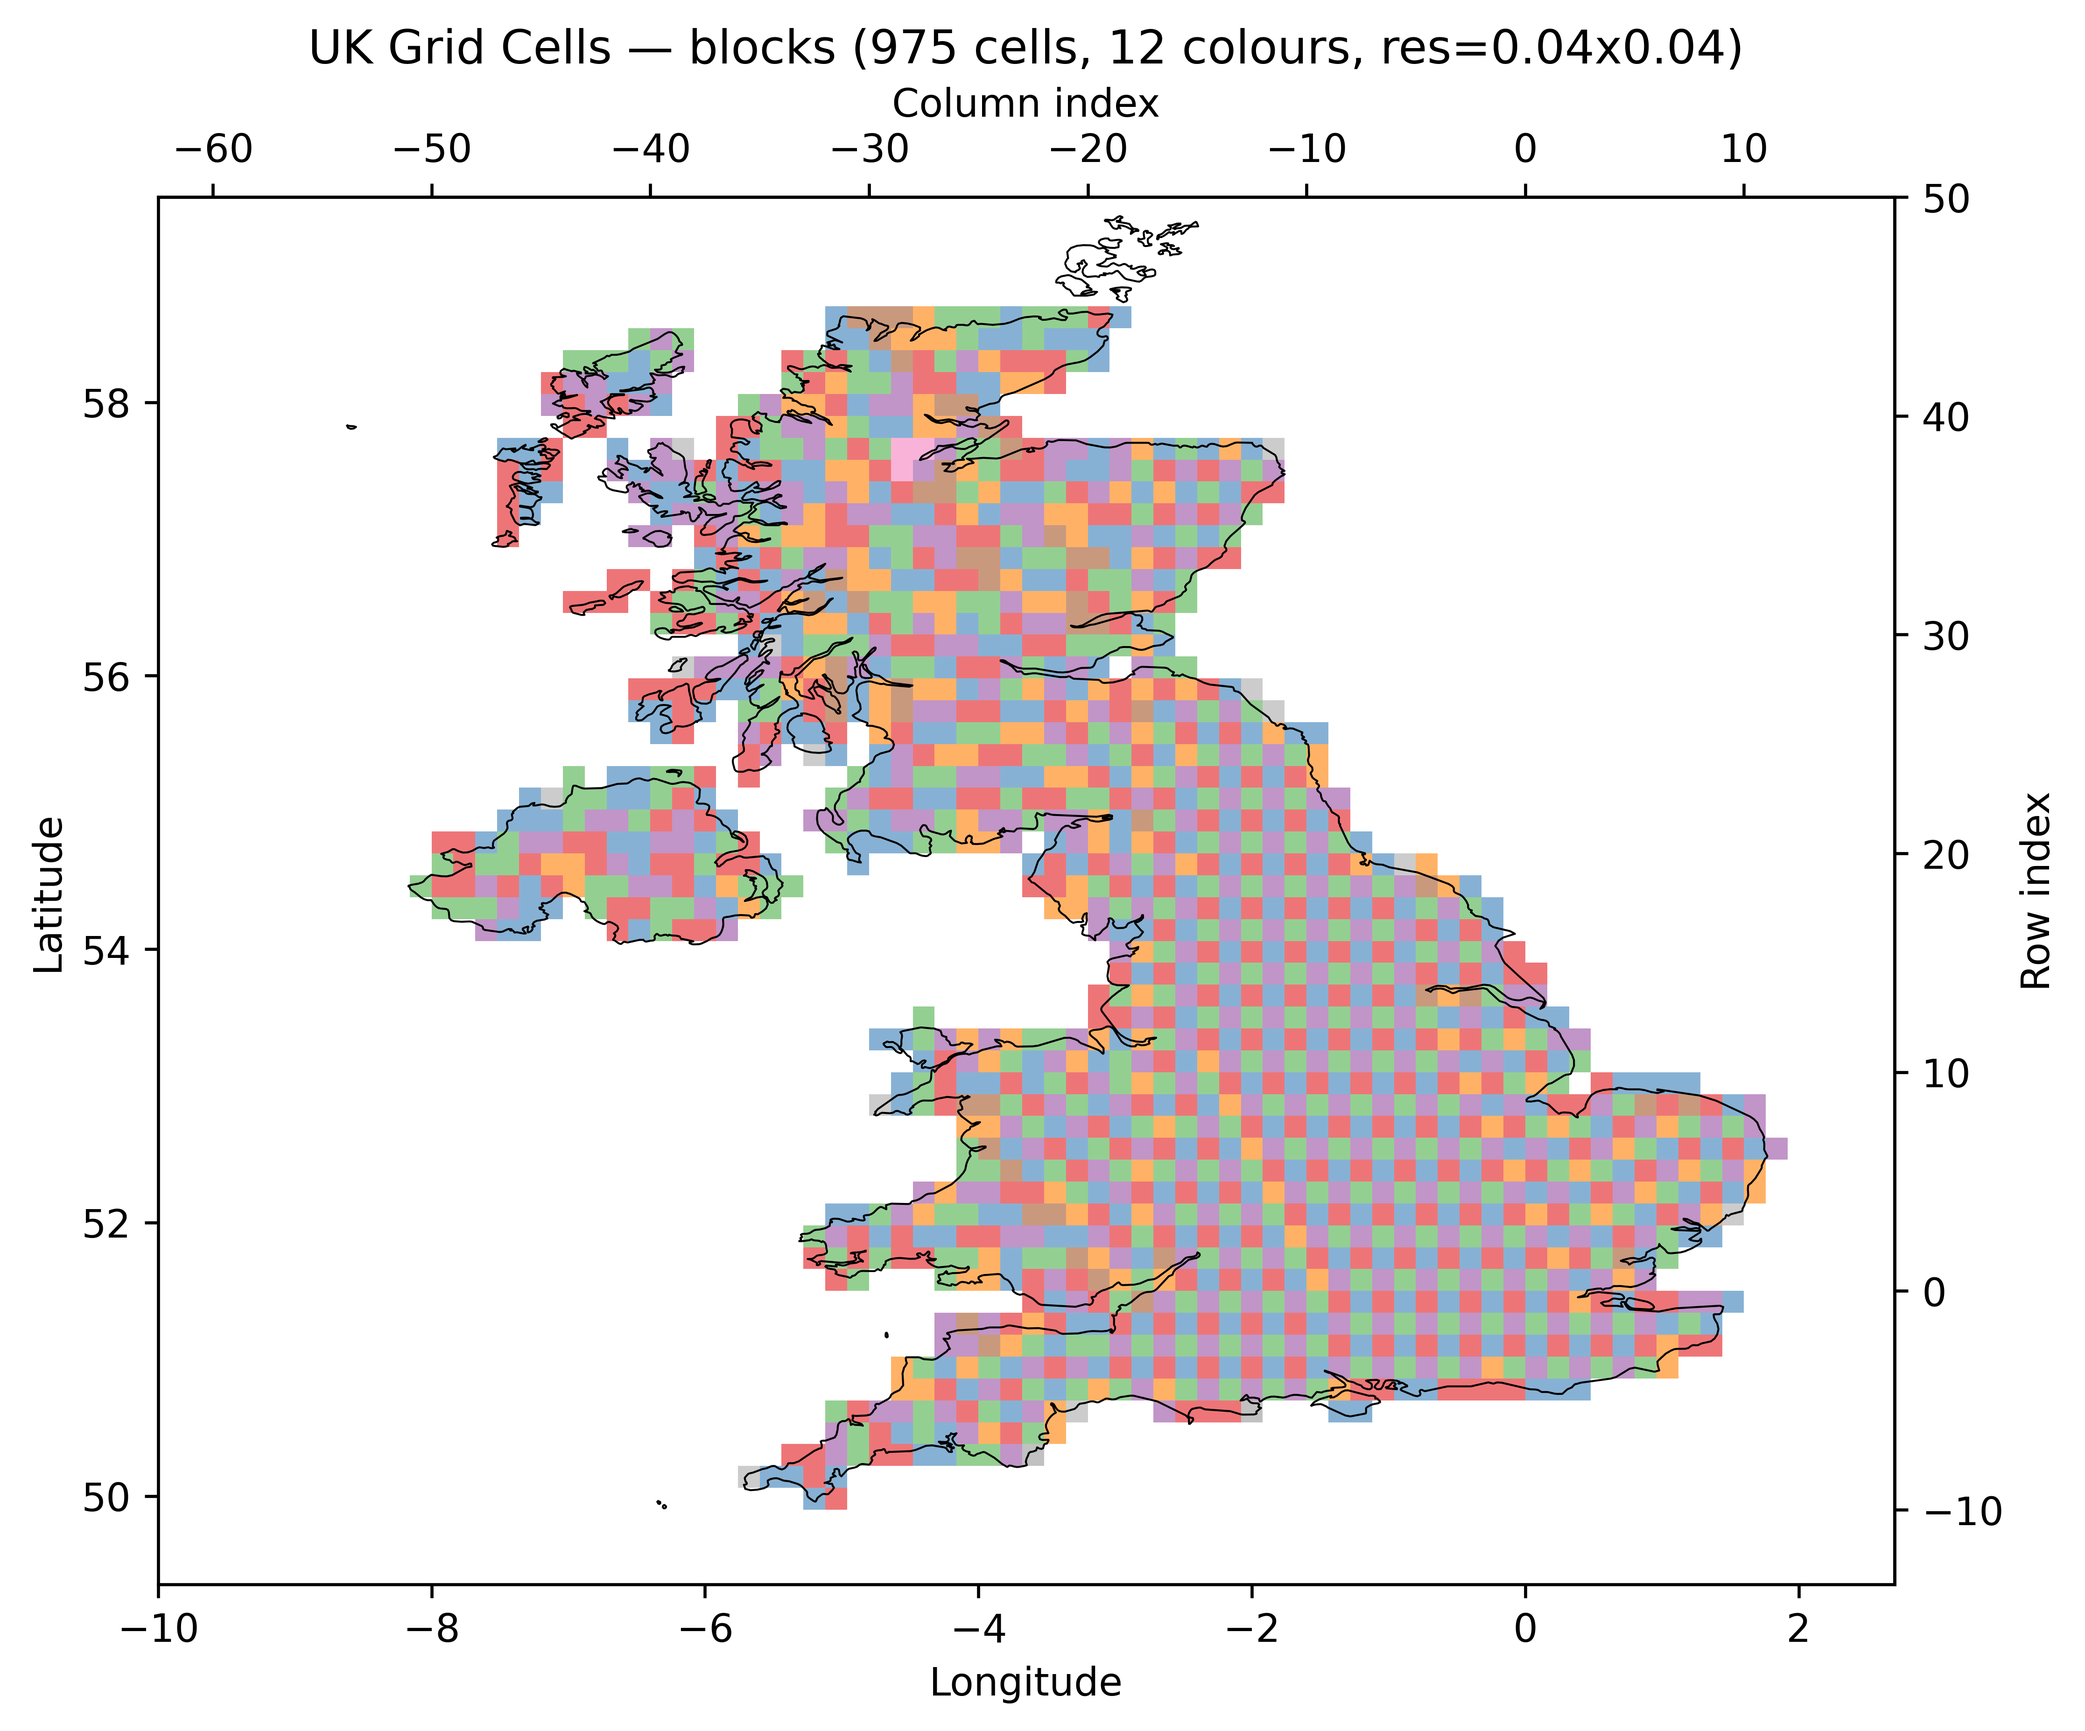
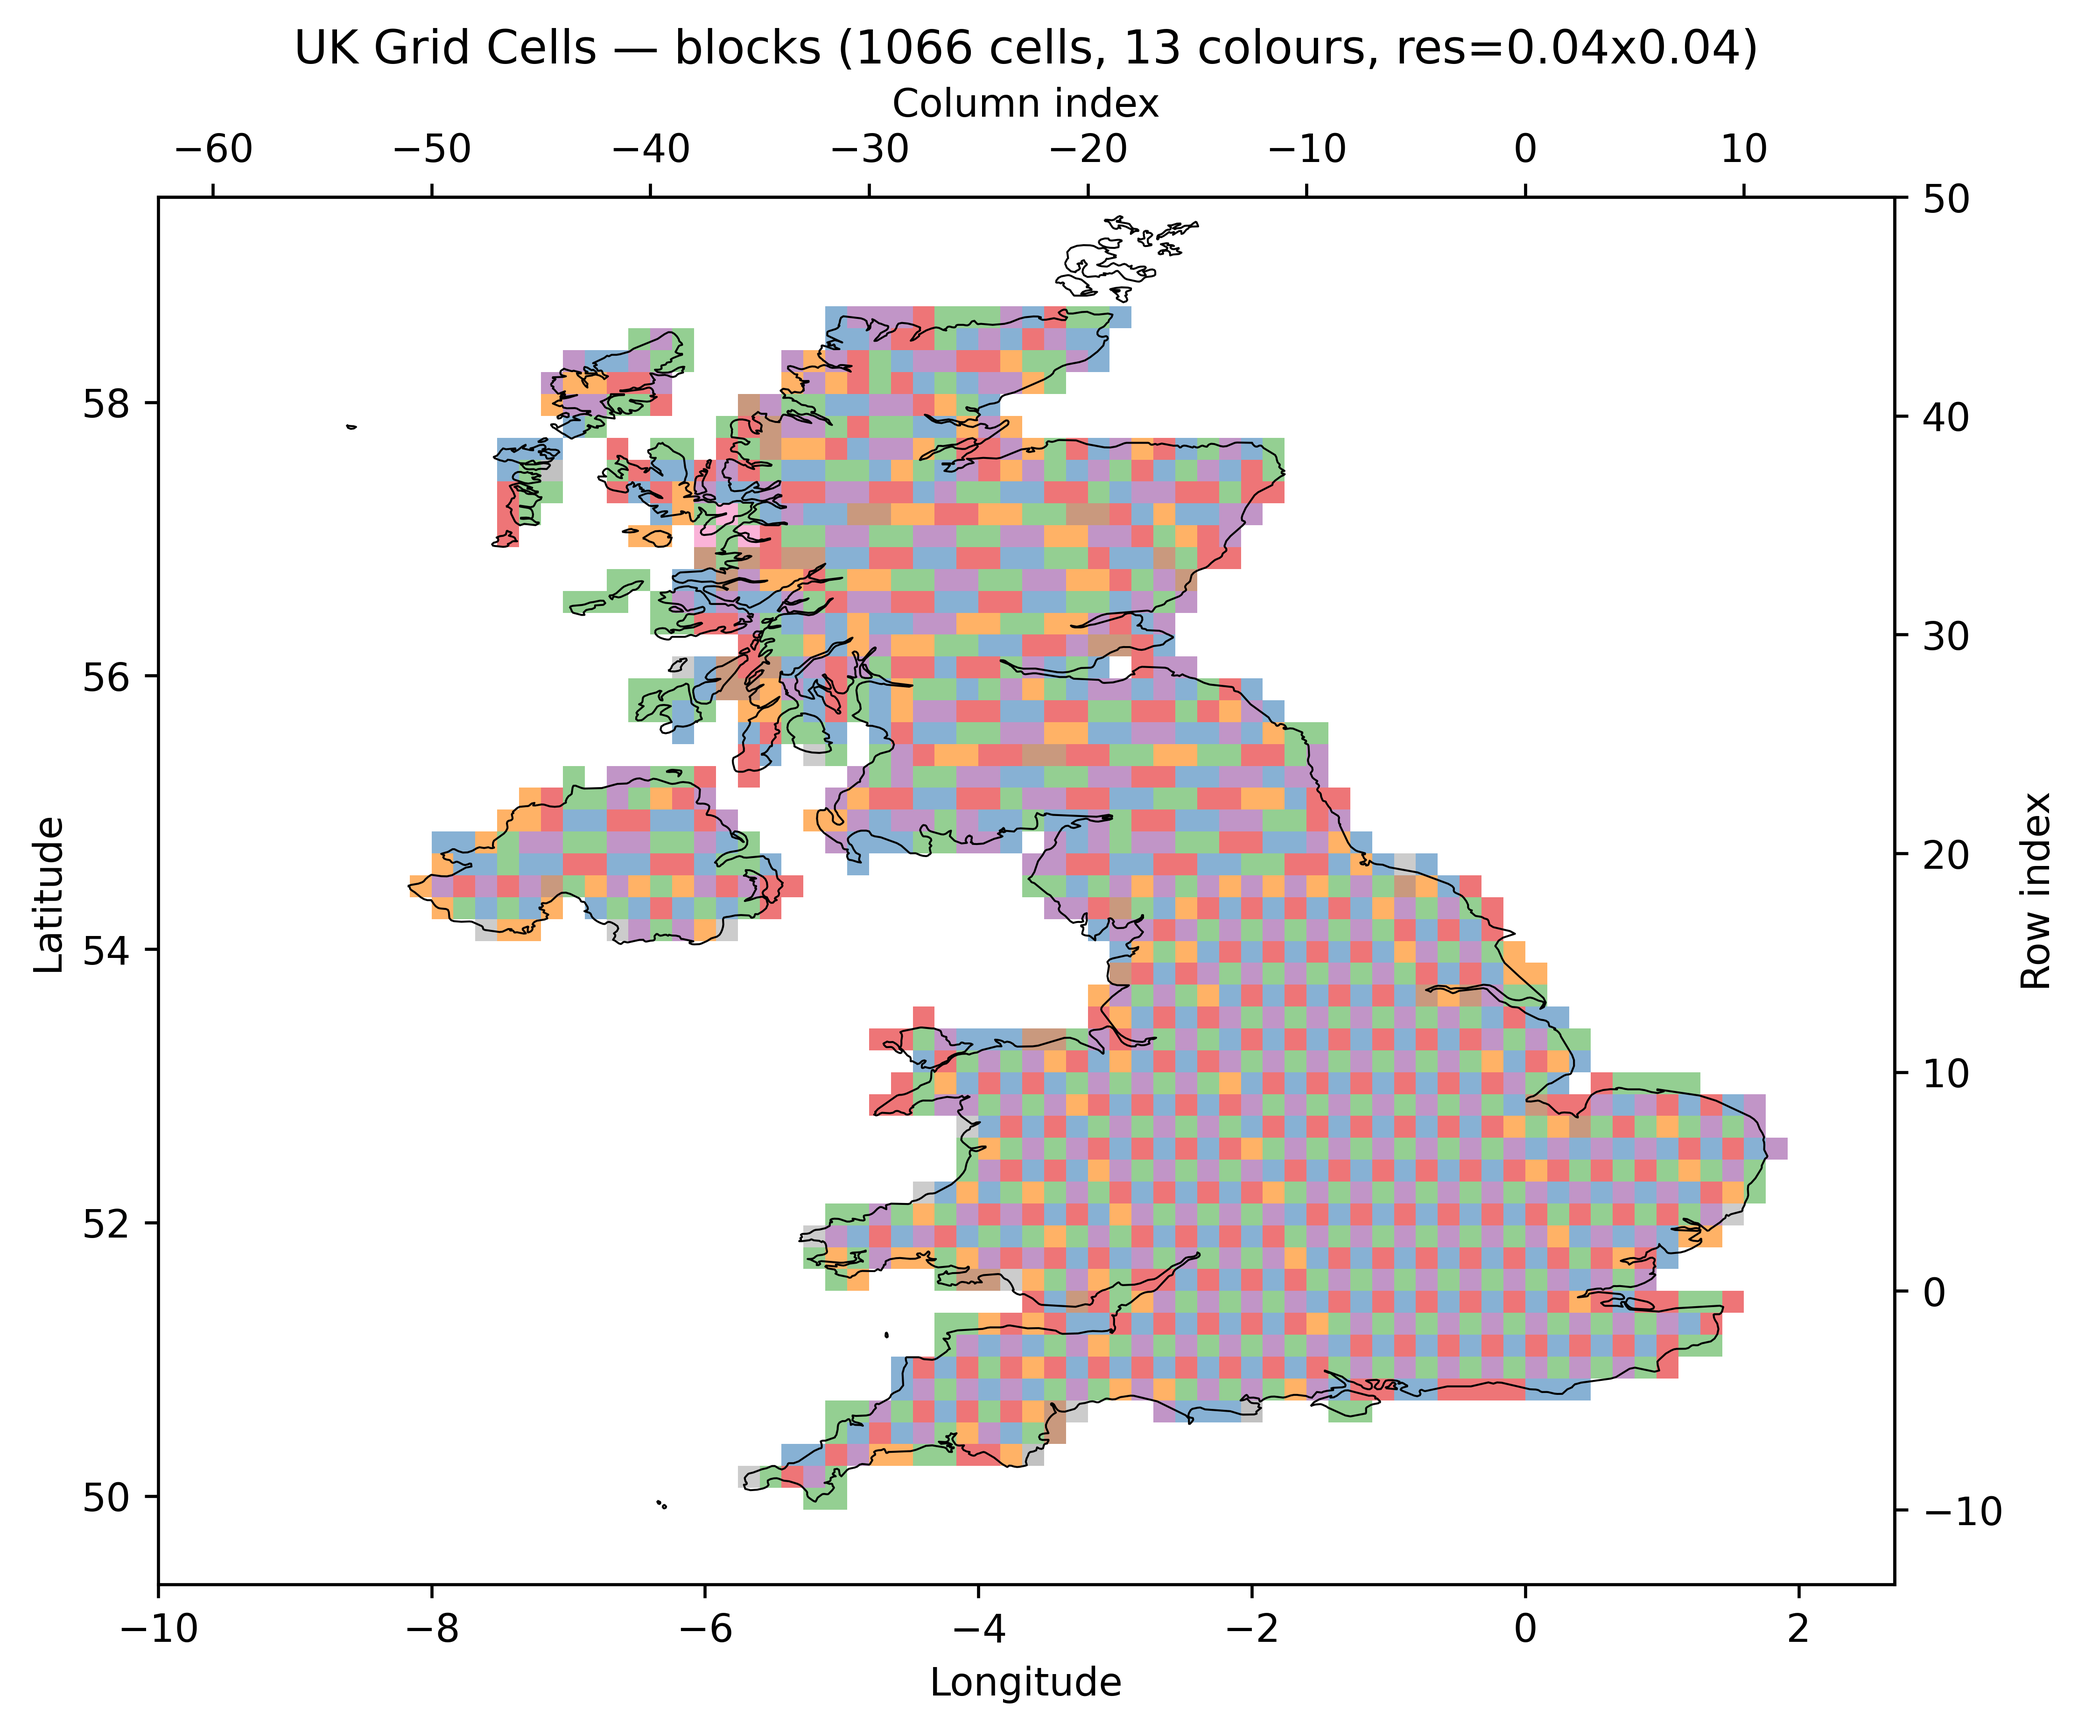
Update UK grid

diff --git a/uk-geo/uk_geo.py b/uk-geo/uk_geo.py
@@ -75,16 +75,17 @@ class GridControl:
 
 NOMINAL_CELL_WIDTH = 4
 GRID_CONTROLS = (
-    GridControl(box=Box(lat_min=50, lon_min=-4, lat_max=51, lon_max=2), relative_size=1.0),
-    GridControl(box=Box(lat_min=50, lon_min=-3, lat_max=58, lon_max=2), relative_size=1.0),
-    GridControl(box=Box(lat_min=50, lon_min=-6, lat_max=56, lon_max=2), relative_size=2.0),
+    GridControl(
+        box=Box(lat_min=50, lon_min=-10, lat_max=54.5, lon_max=2),
+        relative_size=1.0
+    ),
 )
 MIN_RELATIVE_SIZE = 0.5
-MAX_RELATIVE_SIZE = 3.00
+MAX_RELATIVE_SIZE = 2.0
 
 MAX_MERGED_CELLS = 9
 
-DETAIL_BOX = Box(lat_min=50.6, lon_min=0, lat_max=51.6, lon_max=1.8)
+DETAIL_BOX = Box(lat_min=49.8, lon_min=-6, lat_max=50.5, lon_max=-4.5)
 SAMPLE_DETAIL_RANGE = range(0, 3)
 DETAIL_DPI = 150
 
